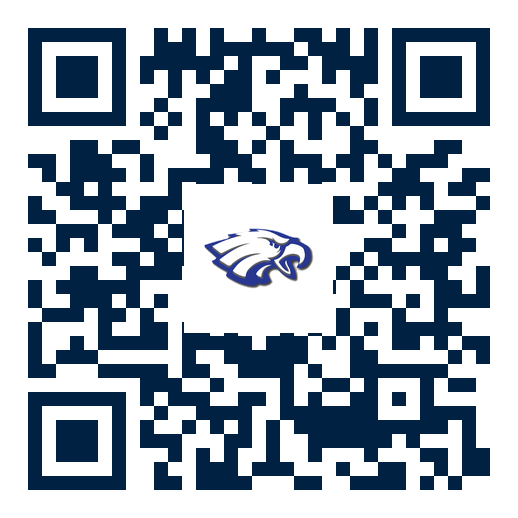
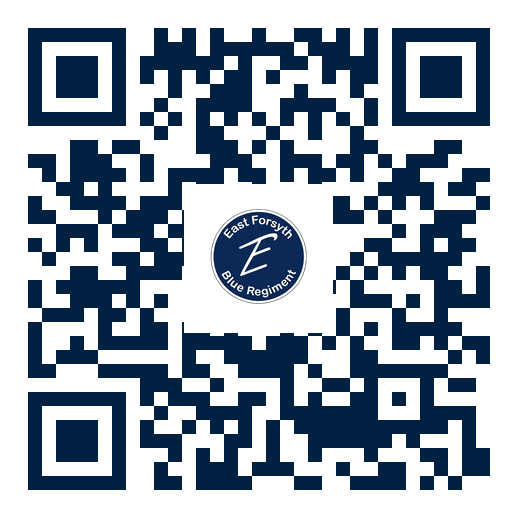
Use Blue Regiment mark in branded QR centers
Swap the EFHS wordmark for the Blue Regiment logo in the Subscribe,
Sponsor, and Donate QR codes.

Changed region(s): [[0.4015, 0.4015, 0.6178, 0.5869]]

diff --git a/qr.html b/qr.html
@@ -33,19 +33,19 @@
     <div class="wrap qr-code-grid" data-qr-code-grid>
       <figure class="qr-code-card">
         <a href="/subscribe" aria-label="Open email subscribe">
-          <img src="/assets/email-list-subscribe-qr.png?v=branded-qr-20260820" width="240" height="240" alt="QR code to subscribe to band email updates">
+          <img src="/assets/email-list-subscribe-qr.png?v=branded-qr-mark-20260820" width="240" height="240" alt="QR code to subscribe to band email updates">
         </a>
         <figcaption>Subscribe!</figcaption>
       </figure>
       <figure class="qr-code-card">
         <a href="/sponsor" aria-label="Open sponsorship page">
-          <img src="/assets/sponsor-qr.png?v=branded-qr-20260820" width="240" height="240" alt="QR code to become a sponsor">
+          <img src="/assets/sponsor-qr.png?v=branded-qr-mark-20260820" width="240" height="240" alt="QR code to become a sponsor">
         </a>
         <figcaption>Sponsor!</figcaption>
       </figure>
       <figure class="qr-code-card">
         <a href="/donate" aria-label="Open donate form">
-          <img src="/assets/donate-qr.png?v=branded-qr-20260820" width="240" height="240" alt="QR code to donate">
+          <img src="/assets/donate-qr.png?v=branded-qr-mark-20260820" width="240" height="240" alt="QR code to donate">
         </a>
         <figcaption>Donate!</figcaption>
       </figure>

diff --git a/calendar.html b/calendar.html
@@ -32,7 +32,7 @@
     <div class="email-list-signup-action">
       <button type="button" class="btn primary" data-email-list-open>Subscribe</button>
       <a class="email-list-signup-qr" href="/subscribe" aria-label="Open email subscribe form">
-        <img src="/assets/email-list-subscribe-qr.png?v=branded-qr-20260820" width="96" height="96" alt="QR code that opens email subscribe">
+        <img src="/assets/email-list-subscribe-qr.png?v=branded-qr-mark-20260820" width="96" height="96" alt="QR code that opens email subscribe">
         <span>Scan to subscribe</span>
       </a>
     </div>

diff --git a/fundraising.html b/fundraising.html
@@ -32,7 +32,7 @@
     <div class="email-list-signup-action">
       <button type="button" class="btn primary" data-email-list-open>Subscribe</button>
       <a class="email-list-signup-qr" href="/subscribe" aria-label="Open email subscribe form">
-        <img src="/assets/email-list-subscribe-qr.png?v=branded-qr-20260820" width="96" height="96" alt="QR code that opens email subscribe">
+        <img src="/assets/email-list-subscribe-qr.png?v=branded-qr-mark-20260820" width="96" height="96" alt="QR code that opens email subscribe">
         <span>Scan to subscribe</span>
       </a>
     </div>
